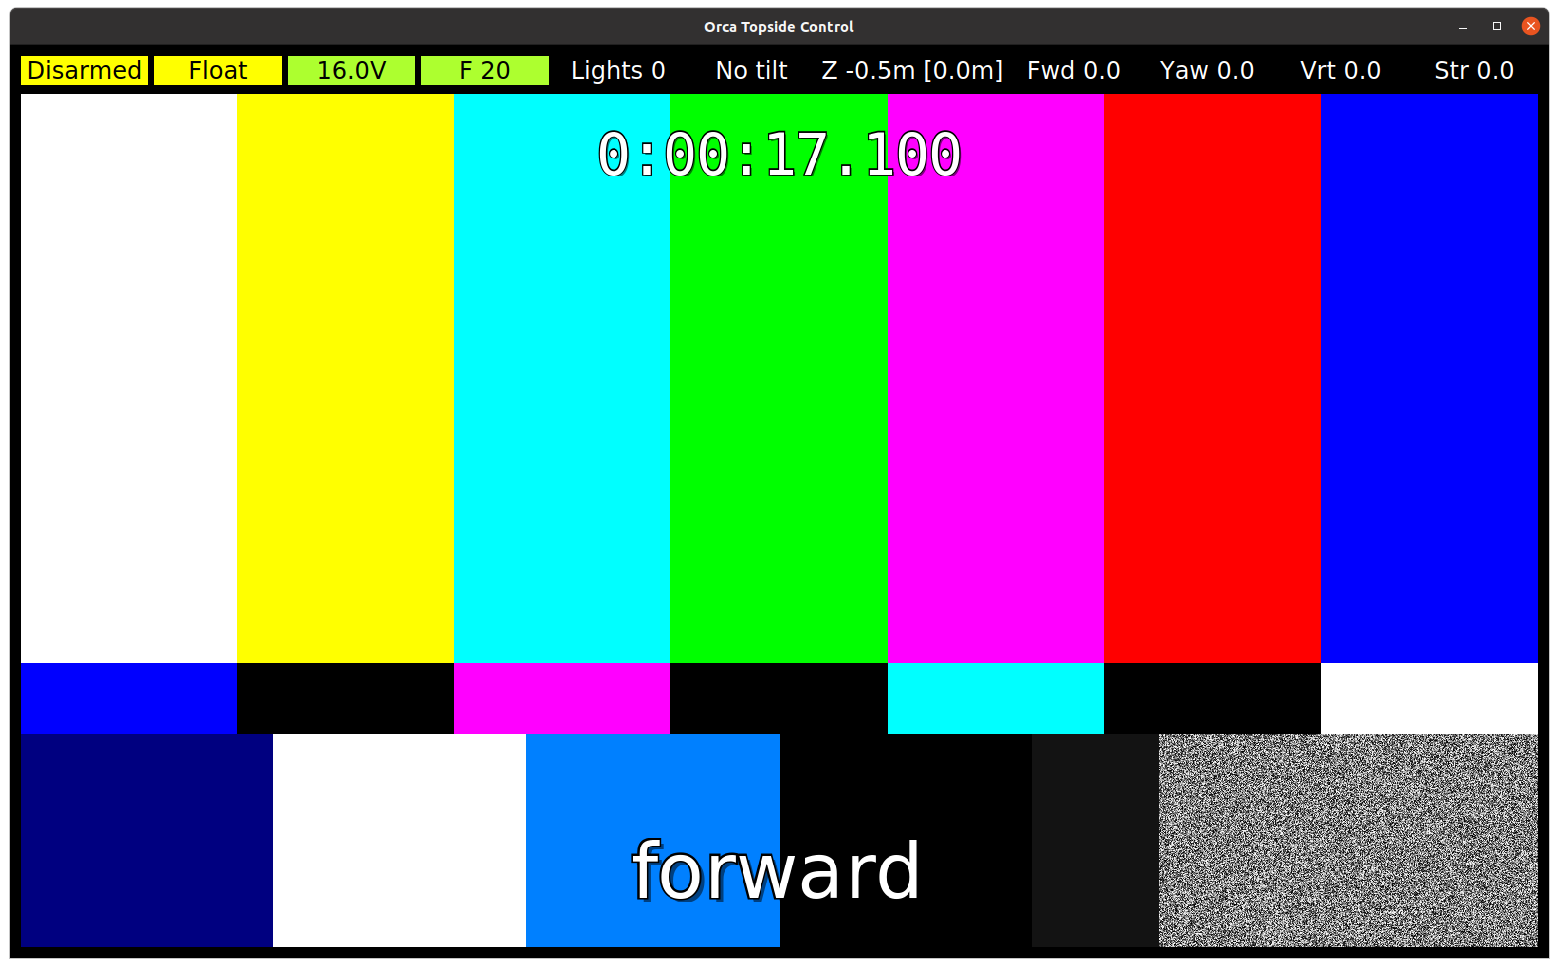
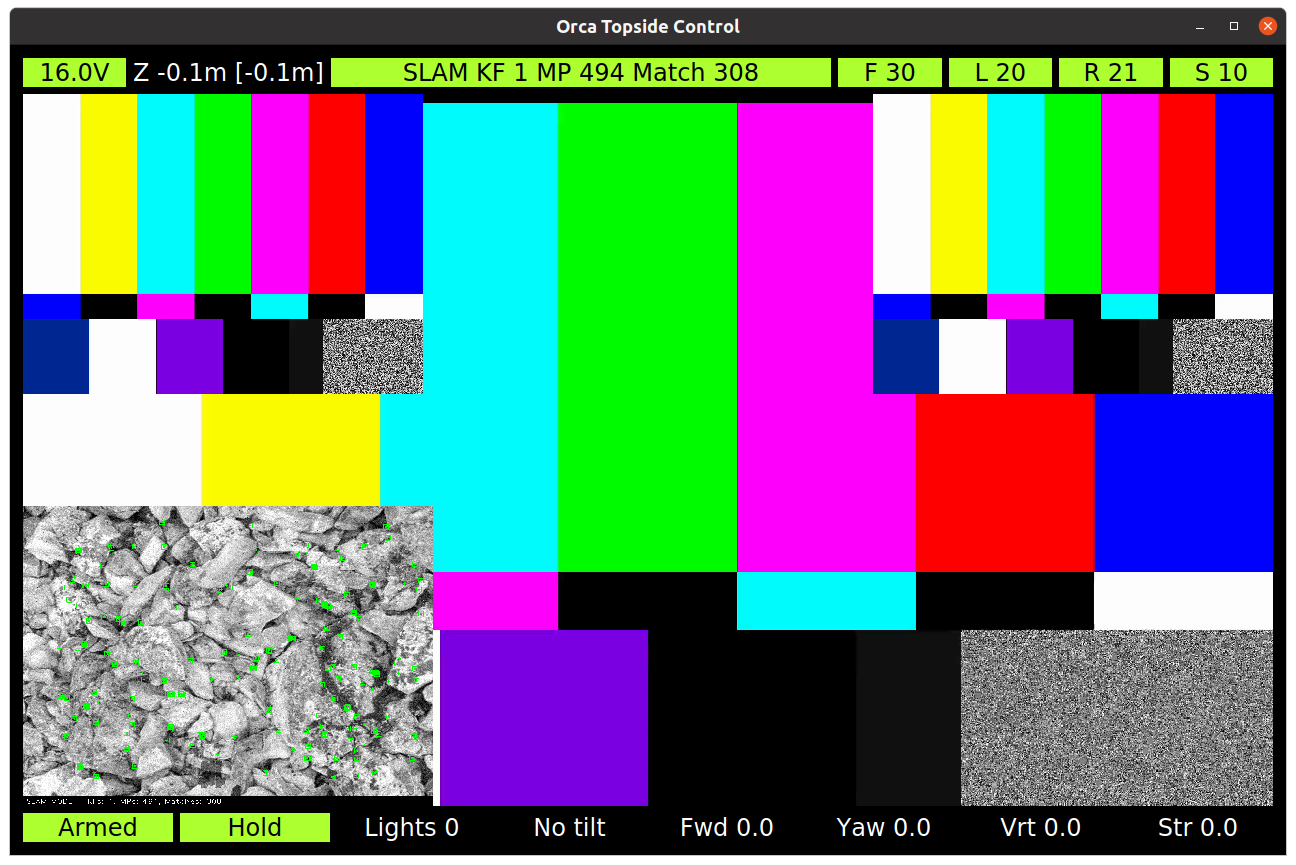
Update docs

diff --git a/orca_topside/include/orca_topside/teleop_node.hpp b/orca_topside/include/orca_topside/teleop_node.hpp
@@ -82,7 +82,7 @@ class TopsideWidget;
   CXT_MACRO_MEMBER(lcam_url, std::string, "package://orca_bringup/cfg/${NAME}.ini") \
   CXT_MACRO_MEMBER(rcam_url, std::string, "package://orca_bringup/cfg/${NAME}.ini") \
  \
-  CXT_MACRO_MEMBER(fcam_gst_source, std::string, "v4l2src device=/dev/video0 do-timestamp=true ! video/x-h264,width=1920,height=1080,framerate=30/1 ! h264parse ! capsfilter caps=video/x-h264,stream-format=byte-stream,alignment=au") \
+  CXT_MACRO_MEMBER(fcam_gst_source, std::string, "videotestsrc is-live=true ! capsfilter caps=video/x-raw,width=1920,height=1080,framerate=30/1 ! videoconvert ! queue ! x264enc key-int-max=10 ! h264parse ! capsfilter caps=video/x-h264,stream-format=byte-stream,alignment=au") \
   CXT_MACRO_MEMBER(lcam_gst_source, std::string, "videotestsrc is-live=true ! capsfilter caps=video/x-raw,width=820,height=616,framerate=20/1 ! videoconvert ! queue ! x264enc key-int-max=10 ! h264parse ! capsfilter caps=video/x-h264,stream-format=byte-stream,alignment=au") \
   CXT_MACRO_MEMBER(rcam_gst_source, std::string, "videotestsrc is-live=true ! capsfilter caps=video/x-raw,width=820,height=616,framerate=20/1 ! videoconvert ! queue ! x264enc key-int-max=10 ! h264parse ! capsfilter caps=video/x-h264,stream-format=byte-stream,alignment=au") \
  \

diff --git a/orca_topside/README.md b/orca_topside/README.md
@@ -15,24 +15,47 @@ turn on the lights, turn on the PID controller, etc.
 
 ## Display
 
-The top bar displays the following:
+The top bar (roughly: sensors) displays the following:
+* Battery voltage
+* Depth (z) actual and target
+* SLAM status
+* Forward camera fps
+* Left camera fps
+* Right camera fps
+* SLAM debug image fps
+
+The bottom bar (roughly: controls) displays the following:
 * Disarmed vs armed
 * Float vs hold
-* Battery voltage
-* Forward camera fps
-* If enabled, left camera fps
-* If enabled, right camera fps
 * Lights 0 (off) to 100 (full on)
 * Camera tilt
-* Depth (z) actual and target
 * Forward (linear.x) velocity trim
 * Yaw (angular.z) velocity trim
 * Vertical (linear.z) velocity trim
 * Strafe (linear.y) velocity trim
 
-The video window displays the forward camera.
-If the left and right cameras are enabled they will be overlayed in the upper-left
-and upper-right corners.
+The main widget displays the images from the forward, left and right H.264 cameras,
+as well as the debug output of the ORB SLAM system.
+The various widgets must be enabled in the launch file.
+Control the main widget using the function keys:
+* F1, F2, F3 start / stop recording the forward, left or right camera
+* F4, F5, F6, F7  show / hide the forward, left, right and SLAM widgets
+* F8, F9, F10, F11 zoom the forward, left, right and SLAM widgets
+
+## Additional keyboard controls
+
+* ! toggles between arm / disarm
+* @ toggles between hold / float
+* ( and ) control the lights
+* _ and + control the camera tilt
+* e, s, d, f and c are arranged to mimic the XBox left joystick.
+  They increment and decrement the forward and yaw trim.
+  The d key sets forward and yaw trim to 0.
+* i, j, k, l and , are arranged to mimic the XBox right joystick.
+  They increment and decrement the vertical and strafe trim.
+  The k key sets vertical and strafe trim to 0.
+
+It is possible, if a little clunky, to operate the ROV only using the keyboard.
 
 ## Xbox joystick controls
 
@@ -50,24 +73,6 @@ and upper-right corners.
   Use trim to control vertical velocity and position.
   The default is disabled.
 * Y enables the right stick up / down motion
-
-## Keyboard controls
-
-* ! toggles between arm / disarm
-* @ toggles between hold / float
-* F1 records left camera
-* F2 records forward camera
-* F3 records right camera
-* ( and ) control the lights
-* _ and + control the camera tilt
-* e, s, d, f and c are arranged to mimic the XBox left joystick.
-  They increment and decrement the forward and yaw trim.
-  The d key sets forward and yaw trim to 0.
-* i, j, k, l and , are arranged to mimic the XBox right joystick.
-  They increment and decrement the vertical and strafe trim.
-  The k key sets vertical and strafe trim to 0.
-
-It is possible, if a little clunky, to operate the ROV only using the keyboard.
 
 ## Launch
 

diff --git a/README.md b/README.md
@@ -64,6 +64,10 @@ Execute a mission by calling the `FollowWaypoints` action in a second terminal:
 ~~~
 cd ~/ros2/orca_ws
 source src/orca3/setup.bash
+
+# Arm sub, turn on hover and vertical pid controller
+ros2 topic pub --once /teleop orca_msgs/Teleop "{armed: true, hover_thrust: true, pid_enabled: True}"
+
 # Aligns with markers on the ping-pong map
 ros2 action send_goal /FollowWaypoints nav2_msgs/action/FollowWaypoints "{poses: [\
 {header: {frame_id: 'map'}, pose: {position: {x: 4, z: -2}}},\
@@ -103,6 +107,10 @@ Execute a mission by calling the `FollowWaypoints` action in a second terminal:
 ~~~
 cd ~/ros2/orca_ws
 source src/orca3/setup.bash
+
+# Arm sub, turn on hover and vertical pid controller
+ros2 topic pub --once /teleop orca_msgs/Teleop "{armed: true, hover_thrust: true, pid_enabled: True}"
+
 # Run a 6m x 6m box 1.5m above the seafloor, will do a loop closure
 ros2 action send_goal /FollowWaypoints nav2_msgs/action/FollowWaypoints "{poses: [\
 {header: {frame_id: 'map'}, pose: {position: {x: 3, y: 3, z: -2.5}}},\
